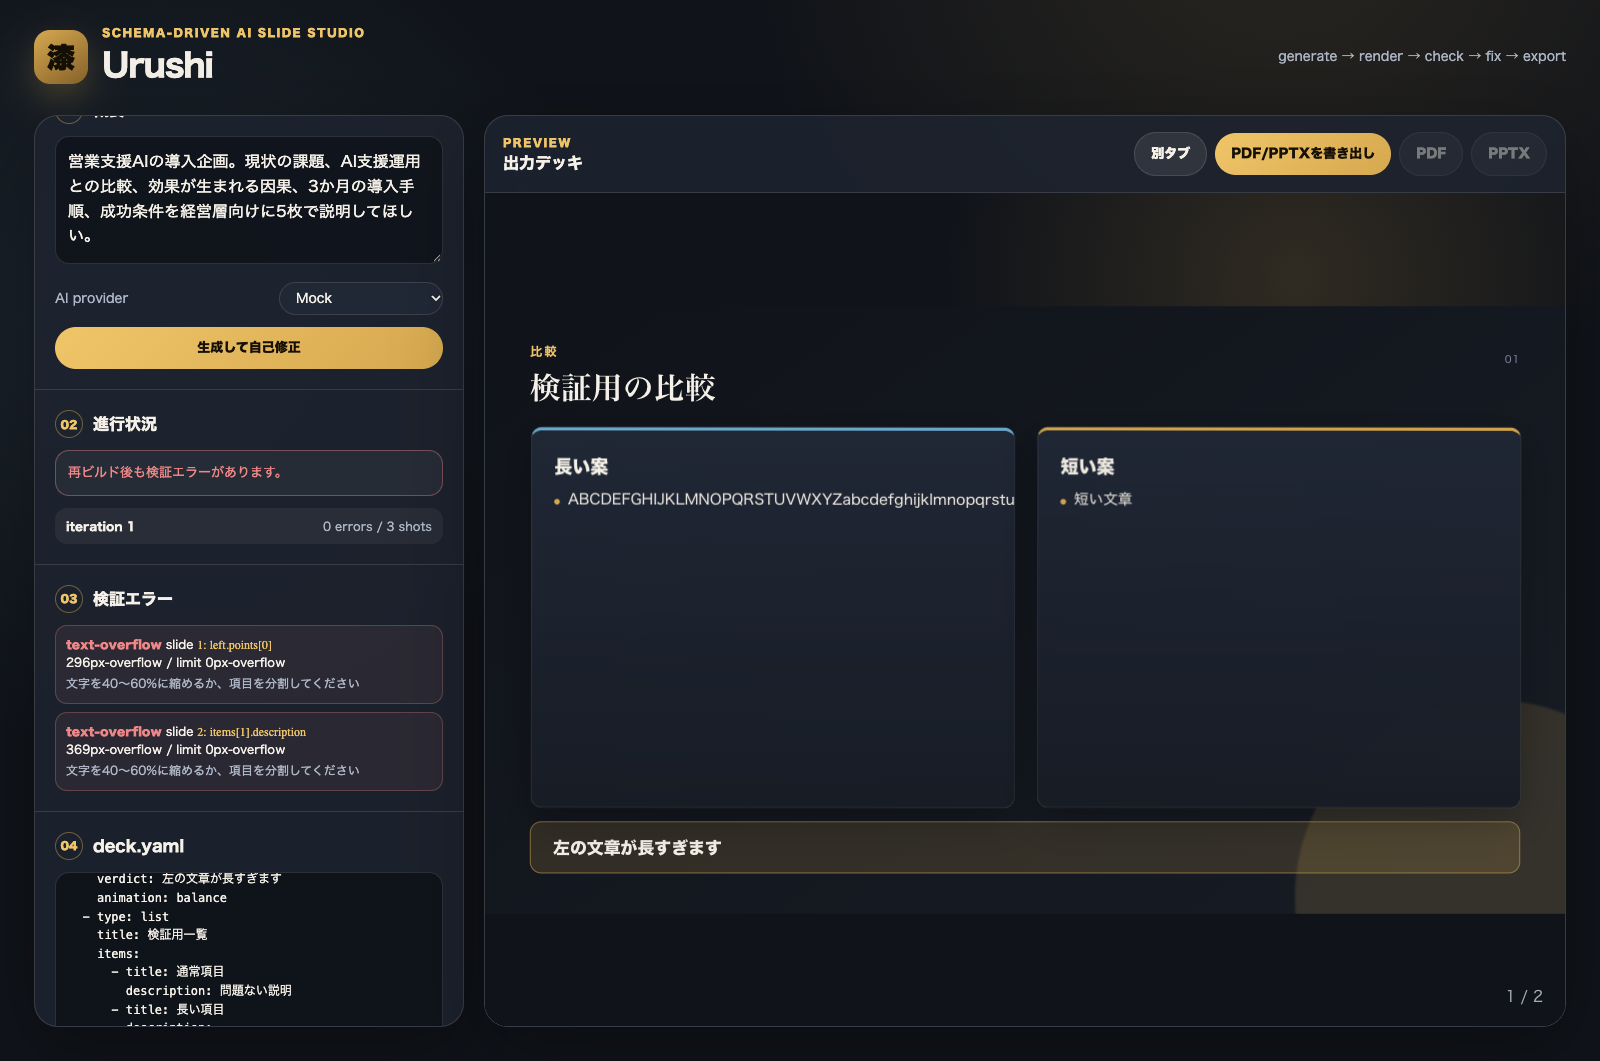
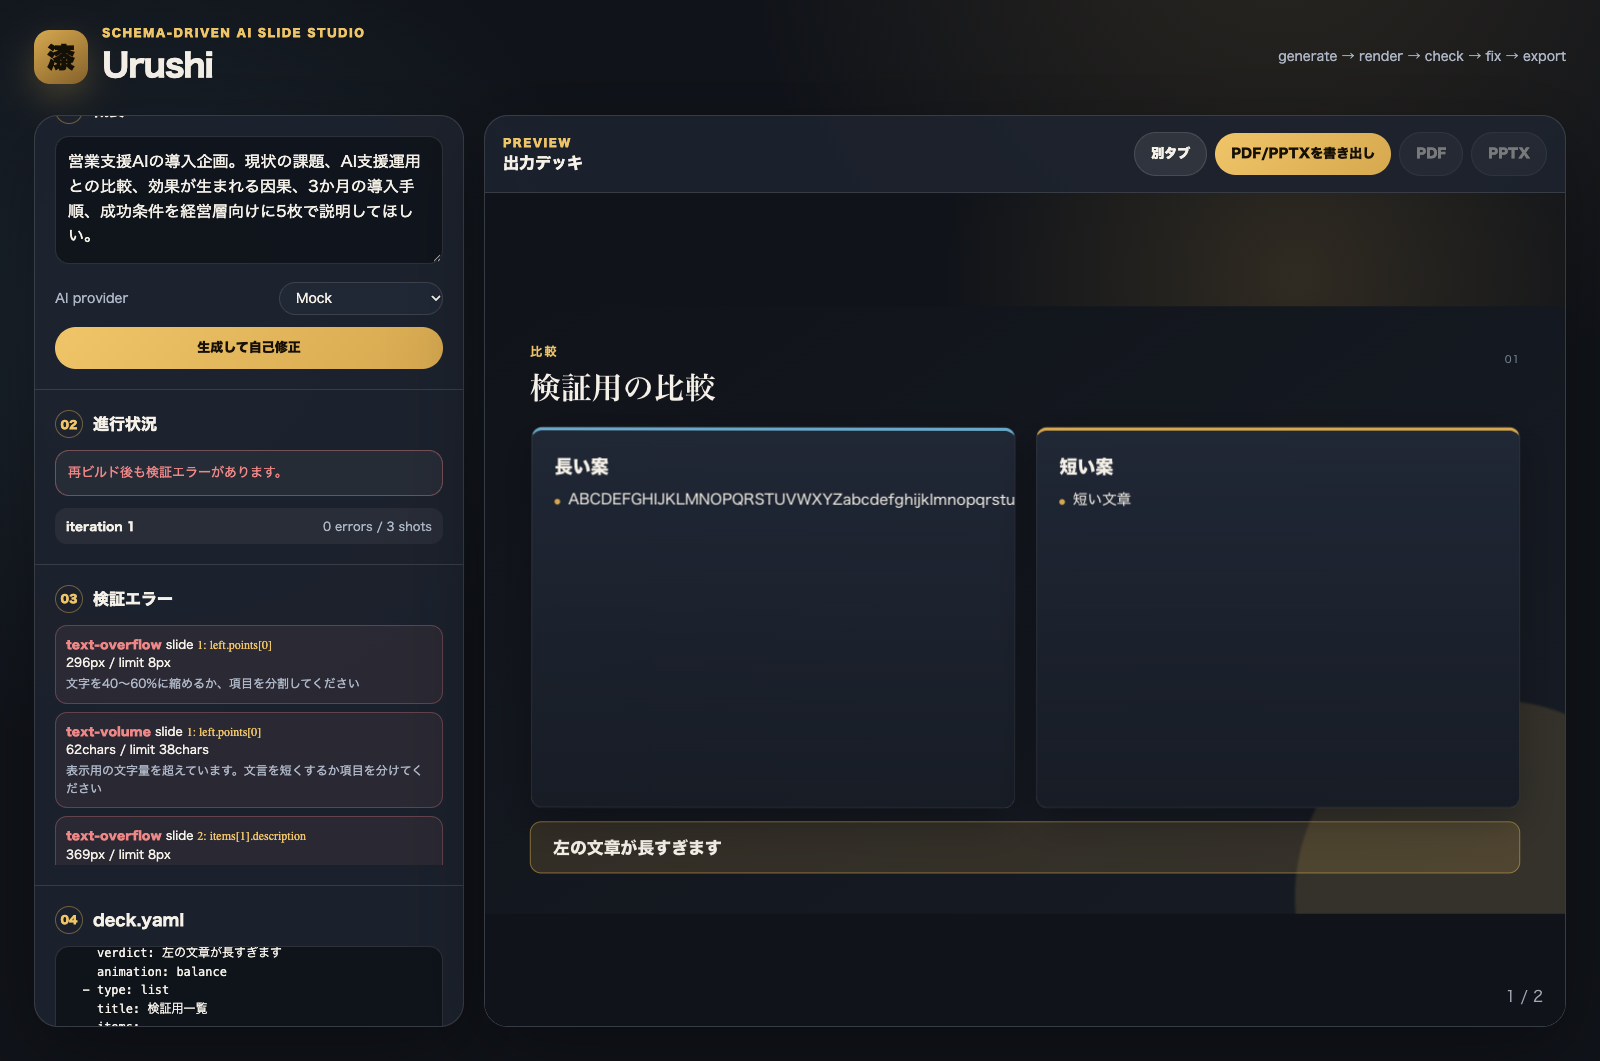
Measure text volume during browser checks
Generated with [Devin](https://devin.ai)

diff --git a/src/templates/slides.tsx b/src/templates/slides.tsx
@@ -17,6 +17,14 @@ const typeLabels: Record<Slide['type'], string> = {
   custom: '自由HTML',
 };
 
+function textCheck(path: string, maxChars: number) {
+  return {
+    'data-check-text': true,
+    'data-check-path': path,
+    'data-max-chars': maxChars,
+  };
+}
+
 function animationAttributes(slide: Slide, fallback: string) {
   return {
     'data-anim': slide.animation ?? fallback,
@@ -31,7 +39,7 @@ function SlideHeader(props: { slide: Slide; index: number; title?: string }) {
       <div>
         <div class="eyebrow">{typeLabels[props.slide.type]}</div>
         {title ? (
-          <h1 class="slide-title" data-check-text data-check-path="title">
+          <h1 class="slide-title" {...textCheck('title', 34)}>
             {title}
           </h1>
         ) : null}
@@ -47,20 +55,20 @@ function ConclusionTemplate(props: { slide: ConclusionSlide; index: number }) {
     <div class="slide-inner">
       <SlideHeader slide={slide} index={props.index} />
       <div class="slide-body conclusion-layout" {...animationAttributes(slide, 'assemble')}>
-        <p class="conclusion-statement u-part" data-part data-check-text data-check-path="conclusion">
+        <p class="conclusion-statement u-part" data-part {...textCheck('conclusion', 90)}>
           {slide.conclusion}
         </p>
         {slide.evidence?.length ? (
           <div class="conclusion-evidence">
             {slide.evidence.map((item, index) => (
-              <div class="evidence-chip u-part" data-part data-check-text data-check-path={`evidence[${index}]`}>
+              <div class="evidence-chip u-part" data-part {...textCheck(`evidence[${index}]`, 40)}>
                 {item}
               </div>
             ))}
           </div>
         ) : null}
         {slide.callToAction ? (
-          <div class="call-to-action u-part" data-part data-check-text data-check-path="callToAction">
+          <div class="call-to-action u-part" data-part {...textCheck('callToAction', 34)}>
             {slide.callToAction}
           </div>
         ) : null}
@@ -74,7 +82,7 @@ function ScoreBlock(props: { score?: number; path: string }) {
   const score = Math.round(props.score);
   return (
     <div class="score-block">
-      <span class="score-number u-count" data-value={score} data-check-text data-check-path={`${props.path}.score`}>
+      <span class="score-number u-count" data-value={score} {...textCheck(`${props.path}.score`, 8)}>
         {score}
       </span>
       <span class="score-label">/ 100</span>
@@ -89,18 +97,18 @@ function ComparisonTemplate(props: { slide: ComparisonSlide; index: number }) {
   const { slide } = props;
   const renderSide = (side: ComparisonSlide['left'], key: 'left' | 'right') => (
     <section class={`comparison-panel u-card ${key}`} data-compare-side={key}>
-      <h2 class="comparison-label" data-check-text data-check-path={`${key}.label`}>
+      <h2 class="comparison-label" {...textCheck(`${key}.label`, 20)}>
         {side.label}
       </h2>
       {side.summary ? (
-        <p class="comparison-summary" data-check-text data-check-path={`${key}.summary`}>
+        <p class="comparison-summary" {...textCheck(`${key}.summary`, 48)}>
           {side.summary}
         </p>
       ) : null}
       <ScoreBlock score={side.score} path={key} />
       <ul class="comparison-points">
         {side.points.map((point, index) => (
-          <li data-part data-check-text data-check-path={`${key}.points[${index}]`}>
+          <li data-part {...textCheck(`${key}.points[${index}]`, 38)}>
             {point}
           </li>
         ))}
@@ -117,7 +125,7 @@ function ComparisonTemplate(props: { slide: ComparisonSlide; index: number }) {
           {renderSide(slide.right, 'right')}
         </div>
         {slide.verdict ? (
-          <div class="verdict-strip" data-check-text data-check-path="verdict">
+          <div class="verdict-strip" {...textCheck('verdict', 58)}>
             {slide.verdict}
           </div>
         ) : null}
@@ -135,14 +143,14 @@ function CausalTemplate(props: { slide: CausalSlide; index: number }) {
         <div class="causal-flow">
           <section class="causal-box u-card u-flow-node">
             <div class="causal-label">CAUSE</div>
-            <p class="causal-text" data-check-text data-check-path="cause">
+            <p class="causal-text" {...textCheck('cause', 48)}>
               {slide.cause}
             </p>
           </section>
           <div class="causal-mechanism">
             <div class="causal-arrow u-flow-arrow">→</div>
             {slide.mechanism.map((item, index) => (
-              <div class="mechanism-item u-flow-node" data-check-text data-check-path={`mechanism[${index}]`}>
+              <div class="mechanism-item u-flow-node" {...textCheck(`mechanism[${index}]`, 32)}>
                 {item}
               </div>
             ))}
@@ -150,13 +158,13 @@ function CausalTemplate(props: { slide: CausalSlide; index: number }) {
           </div>
           <section class="causal-box u-card u-flow-node">
             <div class="causal-label">EFFECT</div>
-            <p class="causal-text" data-check-text data-check-path="effect">
+            <p class="causal-text" {...textCheck('effect', 48)}>
               {slide.effect}
             </p>
           </section>
         </div>
         {slide.implication ? (
-          <div class="implication-strip" data-check-text data-check-path="implication">
+          <div class="implication-strip" {...textCheck('implication', 58)}>
             {slide.implication}
           </div>
         ) : null}
@@ -175,11 +183,11 @@ function ProcessTemplate(props: { slide: ProcessSlide; index: number }) {
           {slide.steps.map((step, index) => (
             <section class="process-step u-step u-card">
               <div class="step-index">{index + 1}</div>
-              <h2 class="step-title" data-check-text data-check-path={`steps[${index}].title`}>
+              <h2 class="step-title" {...textCheck(`steps[${index}].title`, 22)}>
                 {step.title}
               </h2>
               {step.description ? (
-                <p class="step-description" data-check-text data-check-path={`steps[${index}].description`}>
+                <p class="step-description" {...textCheck(`steps[${index}].description`, 42)}>
                   {step.description}
                 </p>
               ) : null}
@@ -187,7 +195,7 @@ function ProcessTemplate(props: { slide: ProcessSlide; index: number }) {
           ))}
         </div>
         {slide.outcome ? (
-          <div class="outcome-strip" data-check-text data-check-path="outcome">
+          <div class="outcome-strip" {...textCheck('outcome', 58)}>
             {slide.outcome}
           </div>
         ) : null}
@@ -205,11 +213,11 @@ function ListTemplate(props: { slide: ListSlide; index: number }) {
         <div class={`list-grid count-${slide.items.length}`}>
           {slide.items.map((item, index) => (
             <section class="list-item u-card u-part" data-part>
-              <h2 class="list-item-title" data-check-text data-check-path={`items[${index}].title`}>
+              <h2 class="list-item-title" {...textCheck(`items[${index}].title`, 24)}>
                 {item.title}
               </h2>
               {item.description ? (
-                <p class="list-item-description" data-check-text data-check-path={`items[${index}].description`}>
+                <p class="list-item-description" {...textCheck(`items[${index}].description`, 48)}>
                   {item.description}
                 </p>
               ) : null}
@@ -217,7 +225,7 @@ function ListTemplate(props: { slide: ListSlide; index: number }) {
           ))}
         </div>
         {slide.takeaway ? (
-          <div class="takeaway-strip" data-check-text data-check-path="takeaway">
+          <div class="takeaway-strip" {...textCheck('takeaway', 58)}>
             {slide.takeaway}
           </div>
         ) : null}

diff --git a/src/server.ts b/src/server.ts
@@ -5,7 +5,7 @@ import { extname, join, normalize, resolve } from 'node:path';
 import { randomUUID } from 'node:crypto';
 import type { ProviderName } from './config.js';
 import { createAiProvider, generateWithFixLoop, type GenerationResult, type LoopIteration } from './ai/index.js';
-import { buildAndCheck, readDeckFile } from './pipeline.js';
+import { buildAndCheck, DeckValidationError, readDeckFile } from './pipeline.js';
 import { exportDeck } from './export/index.js';
 
 interface Job {
@@ -209,18 +209,26 @@ export async function startServer(port = 3333): Promise<void> {
           }
           const deckPath = join(job.outDir, 'deck.yaml');
           await writeFile(deckPath, body.yaml, 'utf8');
-          const rebuilt = await buildAndCheck(deckPath, job.outDir);
-          job.result = {
-            provider: job.result?.provider ?? 'manual',
-            model: job.result?.model ?? 'yaml-edit',
-            outDir: job.outDir,
-            deckPath,
-            htmlPath: rebuilt.build.htmlPath,
-            ok: rebuilt.check.ok,
-            iterations: job.result?.iterations ?? [],
-            finalErrors: rebuilt.check.errors,
-          };
-          sendJson(response, 200, { ok: rebuilt.check.ok, errors: rebuilt.check.errors, warnings: rebuilt.build.warnings });
+          try {
+            const rebuilt = await buildAndCheck(deckPath, job.outDir);
+            job.result = {
+              provider: job.result?.provider ?? 'manual',
+              model: job.result?.model ?? 'yaml-edit',
+              outDir: job.outDir,
+              deckPath,
+              htmlPath: rebuilt.build.htmlPath,
+              ok: rebuilt.check.ok,
+              iterations: job.result?.iterations ?? [],
+              finalErrors: rebuilt.check.errors,
+            };
+            sendJson(response, 200, { ok: rebuilt.check.ok, errors: rebuilt.check.errors, warnings: rebuilt.build.warnings });
+          } catch (error) {
+            if (error instanceof DeckValidationError) {
+              sendJson(response, 422, { ok: false, errors: error.errors, warnings: [] });
+            } else {
+              throw error;
+            }
+          }
           return;
         }
       }

diff --git a/src/check/checker.ts b/src/check/checker.ts
@@ -9,6 +9,7 @@ interface BrowserCheckPayload {
   overflow: CheckError[];
   overlap: CheckError[];
   contrast: CheckError[];
+  volume: CheckError[];
 }
 
 async function openDeckPage(htmlPath: string): Promise<{ page: Page; close: () => Promise<void> }> {
@@ -36,7 +37,7 @@ async function gotoSlide(page: Page, index: number): Promise<void> {
 async function measureSlide(page: Page, slideNumber: number): Promise<CheckError[]> {
   const payload = await page.evaluate((slide): BrowserCheckPayload => {
     const active = document.querySelector('.slide.active') as HTMLElement | null;
-    const empty: BrowserCheckPayload = { overflow: [], overlap: [], contrast: [] };
+    const empty: BrowserCheckPayload = { overflow: [], overlap: [], contrast: [], volume: [] };
     if (!active) return empty;
 
     const pathOf = (el: Element) => el.getAttribute('data-check-path') || el.tagName.toLowerCase();
@@ -65,6 +66,21 @@ async function measureSlide(page: Page, slideNumber: number): Promise<CheckError
           limit: 8,
           unit: 'px',
           hint: '文字を40〜60%に縮めるか、項目を分割してください',
+        });
+      }
+    }
+
+    for (const el of textElements) {
+      const maxChars = Number(el.getAttribute('data-max-chars') || '0');
+      const length = (el.textContent || '').trim().length;
+      if (maxChars > 0 && length > maxChars) {
+        push(empty.volume, {
+          path: pathOf(el),
+          rule: 'text-volume',
+          measured: length,
+          limit: maxChars,
+          unit: 'chars',
+          hint: '表示用の文字量を超えています。文言を短くするか項目を分けてください',
         });
       }
     }
@@ -163,7 +179,7 @@ async function measureSlide(page: Page, slideNumber: number): Promise<CheckError
     return empty;
   }, slideNumber);
 
-  return [...payload.overflow, ...payload.overlap, ...payload.contrast];
+  return [...payload.overflow, ...payload.overlap, ...payload.volume, ...payload.contrast];
 }
 
 export async function captureSlideScreenshots(htmlPath: string, outputDir: string): Promise<string[]> {
